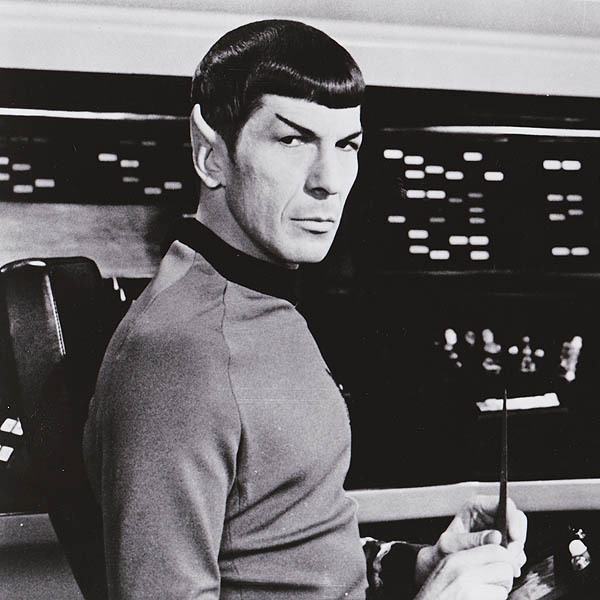
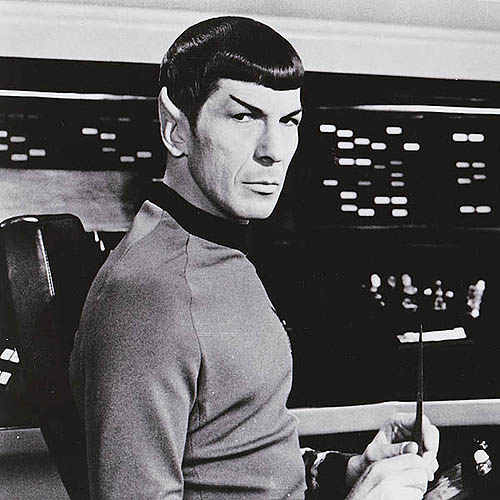
finally got the quiz logic to work

diff --git a/app/models/logician.rb b/app/models/logician.rb
@@ -1,12 +1,12 @@
 class Logician < ActiveRecord::Base
 
   has_attached_file :drawing,
-    styles: { large: "600x600#", medium: "300x300#", thumb: "100x100#" },
+    styles: { large: "500x500#", medium: "300x300#", thumb: "100x100#" },
     default_url: ":style_missingdrawing.png"
   validates_attachment_content_type :drawing, content_type: /\Aimage\/.*\Z/
 
   has_attached_file :photo,
-    styles: { large: "600x600#", medium: "300x300#", thumb: "100x100#" },
+    styles: { large: "500x500#", medium: "300x300#", thumb: "100x100#" },
     default_url: ":style_missingphoto.jpg"
   validates_attachment_content_type :photo, content_type: /\Aimage\/.*\Z/
 end

diff --git a/app/controllers/pages_controller.rb b/app/controllers/pages_controller.rb
@@ -1,5 +1,8 @@
 class PagesController < ApplicationController
   def index
+     #@current = Logician.first
+    #session[:quiz_list] = Array.new
+    session[:quiz_list] = Logician.ids.shuffle
   end
 
   def quiz
@@ -9,8 +12,11 @@ class PagesController < ApplicationController
 
   def result
      @logicians = Logician.all
+
   end
 
   def thanks
   end
+
+
 end
